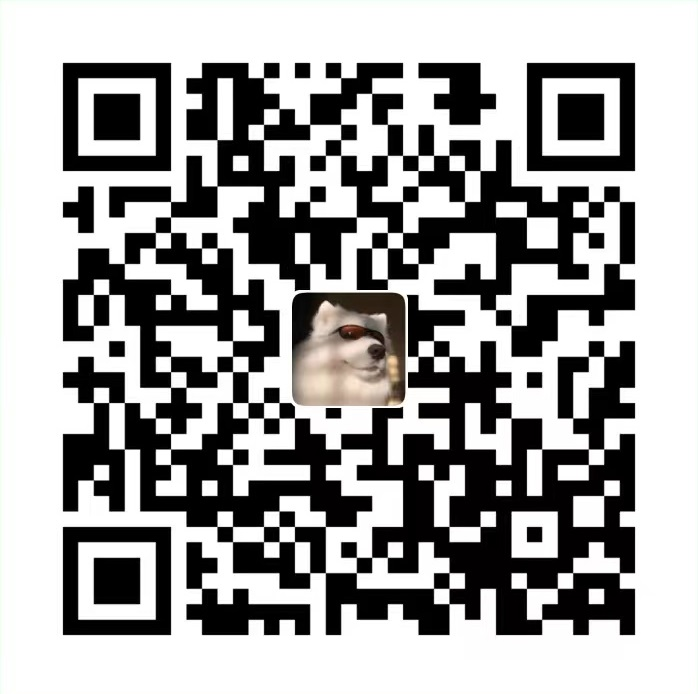
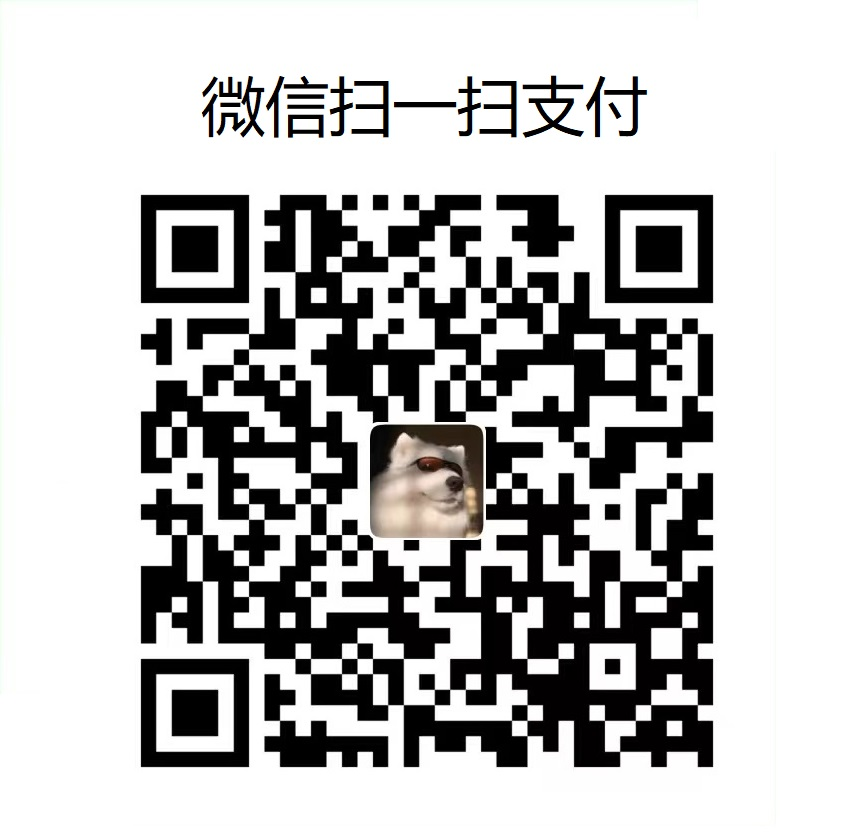
update README.md.

diff --git a/README.md b/README.md
@@ -392,7 +392,7 @@ Jeecg-Boot低代码开发平台，可以应用在任何J2EE项目的开发中，
 
 如果觉得还不错，请作者喝杯咖啡吧 ☺
 
-![](https://static.oschina.net/uploads/img/201903/08155608_0EFX.png)
+![](%E5%BE%AE%E4%BF%A1%E5%9B%BE%E7%89%87_20220324102719.jpg)
 
 
 
